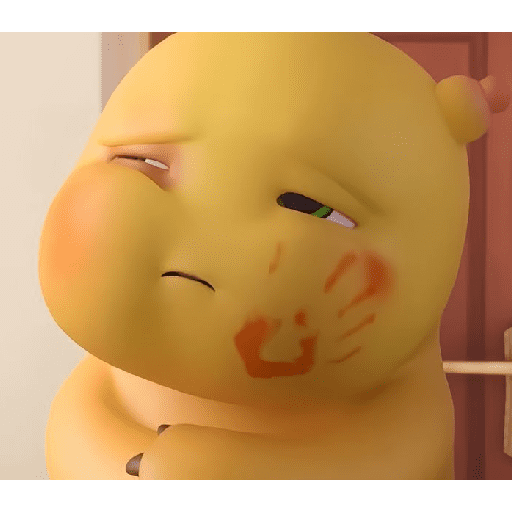
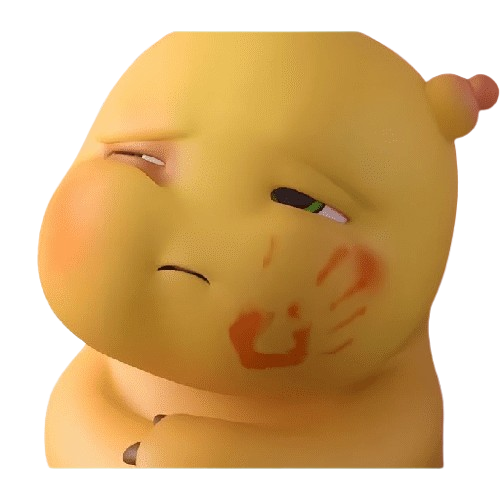
transparent images

diff --git a/script.js b/script.js
@@ -185,34 +185,34 @@ NW.addEventListener("mouseleave", () => {
 
 no_button.addEventListener("mouseenter", () => {
   if (!no_clicked) {
-    img.src = "nailong/images.jpeg";
+    img.src = "nailong/images.png";
   }
 });
 
 no_button.addEventListener("mouseleave", () => {
   if (!no_clicked) {
-    img.src = "nailong/cupid.jpg";
+    img.src = "nailong/cupid.png";
   }
 });
 
 no_button.addEventListener("click", () => {
-  img.src = "nailong/iyak.jpg";
+  img.src = "nailong/iyak.png";
   no_clicked = true;
 });
 
 yes_button.addEventListener("mouseenter", () => {
   if (!yes_clicked) {
-    img.src = "nailong/kilig sobra.jpg";
+    img.src = "nailong/kilig sobra.png";
   }
 });
 
 yes_button.addEventListener("mouseleave", () => {
   if (!yes_clicked) {
-    img.src = "nailong/cupid.jpg";
+    img.src = "nailong/cupid.png";
   }
 });
 
 yes_button.addEventListener("click", () => {
-  img.src = "nailong/kiss.jpg";
+  img.src = "nailong/kiss.png";
   yes_clicked = true;
 });

diff --git a/index.html b/index.html
@@ -9,7 +9,8 @@
   <body>
     <p>YOU WILL BE MY VALENTINE!</p>
     <div class="center">
-      <img src="nailong/cupid.jpg" class="image" id="image" />
+      <img src="nailong/cupid.png
+      " class="image" id="image" />
     </div>
     <div class="button">
       <div class="gridcont2">
